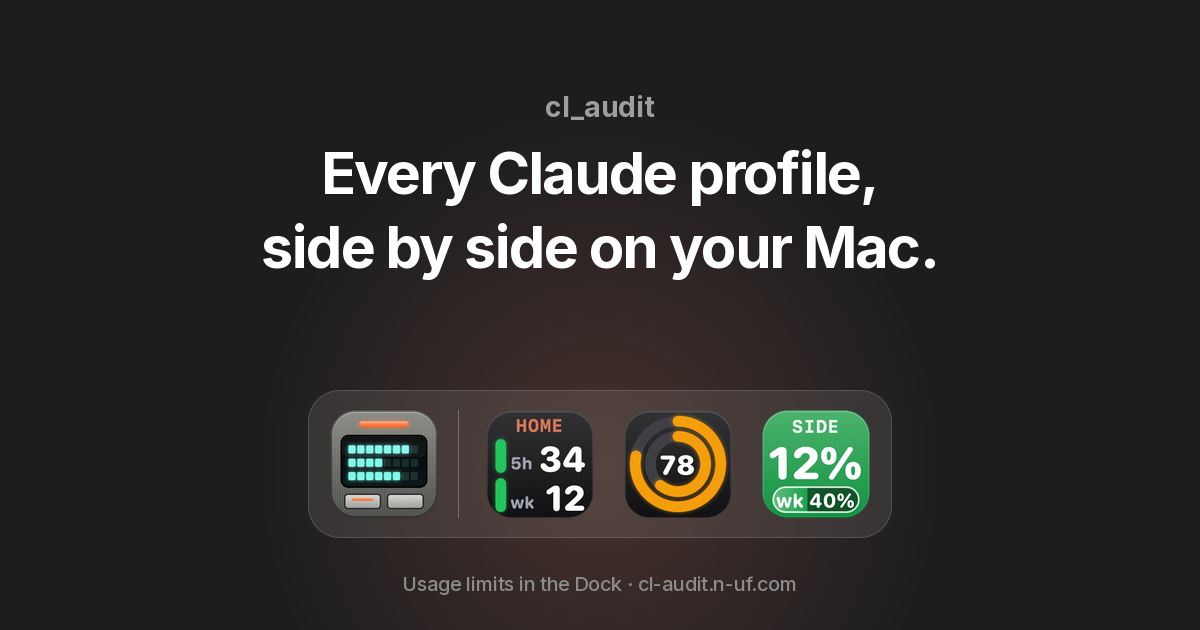
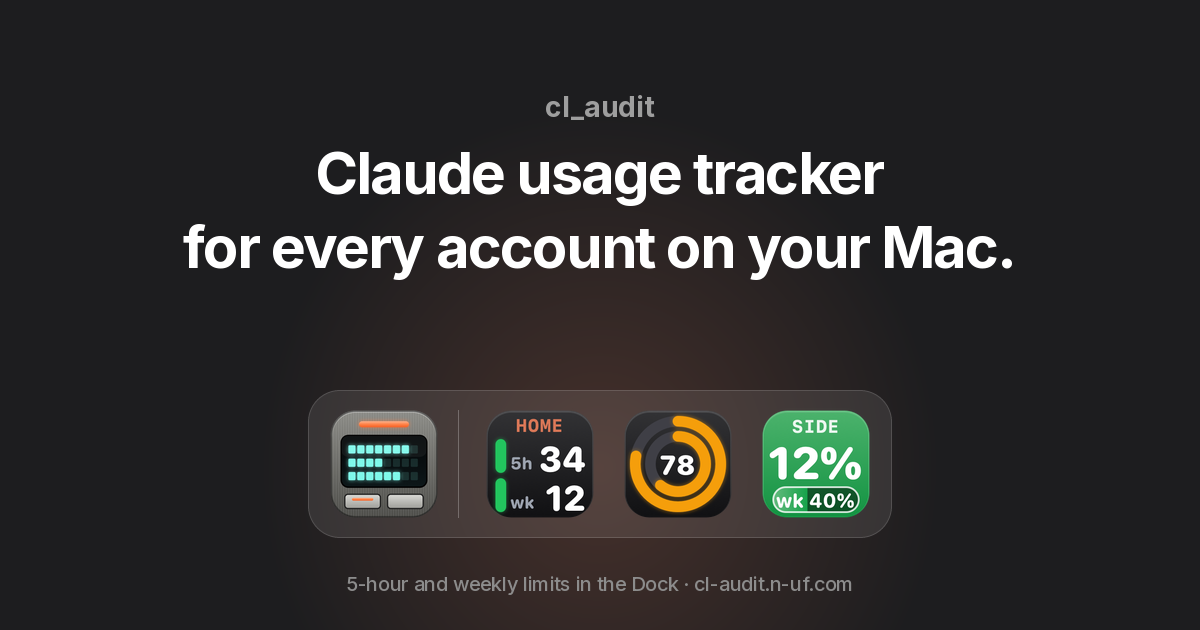
Share image: "Claude usage tracker for every account on your Mac"
The site-wide og:image said "Every Claude profile, side by side on your Mac.",
the old positioning. Re-rendered with render-og.py (Inter from Google Fonts,
OFL, not in the repo) with the home page's main keyword and the 5-hour and
weekly limits in the line under the Dock.

Changed region(s): [[0.1542, 0.3619, 0.8325, 0.4524], [0.2467, 0.2413, 0.74, 0.3317], [0.2775, 0.9048, 0.7092, 0.9349]]

diff --git a/scripts/render-og.py b/scripts/render-og.py
@@ -13,8 +13,8 @@ import argparse, os, subprocess, tempfile
 import numpy as np
 from PIL import Image, ImageDraw, ImageFont
 
-HEAD1, HEAD2 = "Every Claude profile,", "side by side on your Mac."
-SUB = "Usage limits in the Dock · cl-audit.n-uf.com"
+HEAD1, HEAD2 = "Claude usage tracker", "for every account on your Mac."
+SUB = "5-hour and weekly limits in the Dock · cl-audit.n-uf.com"
 
 ap = argparse.ArgumentParser()
 ap.add_argument("--font", required=True)
